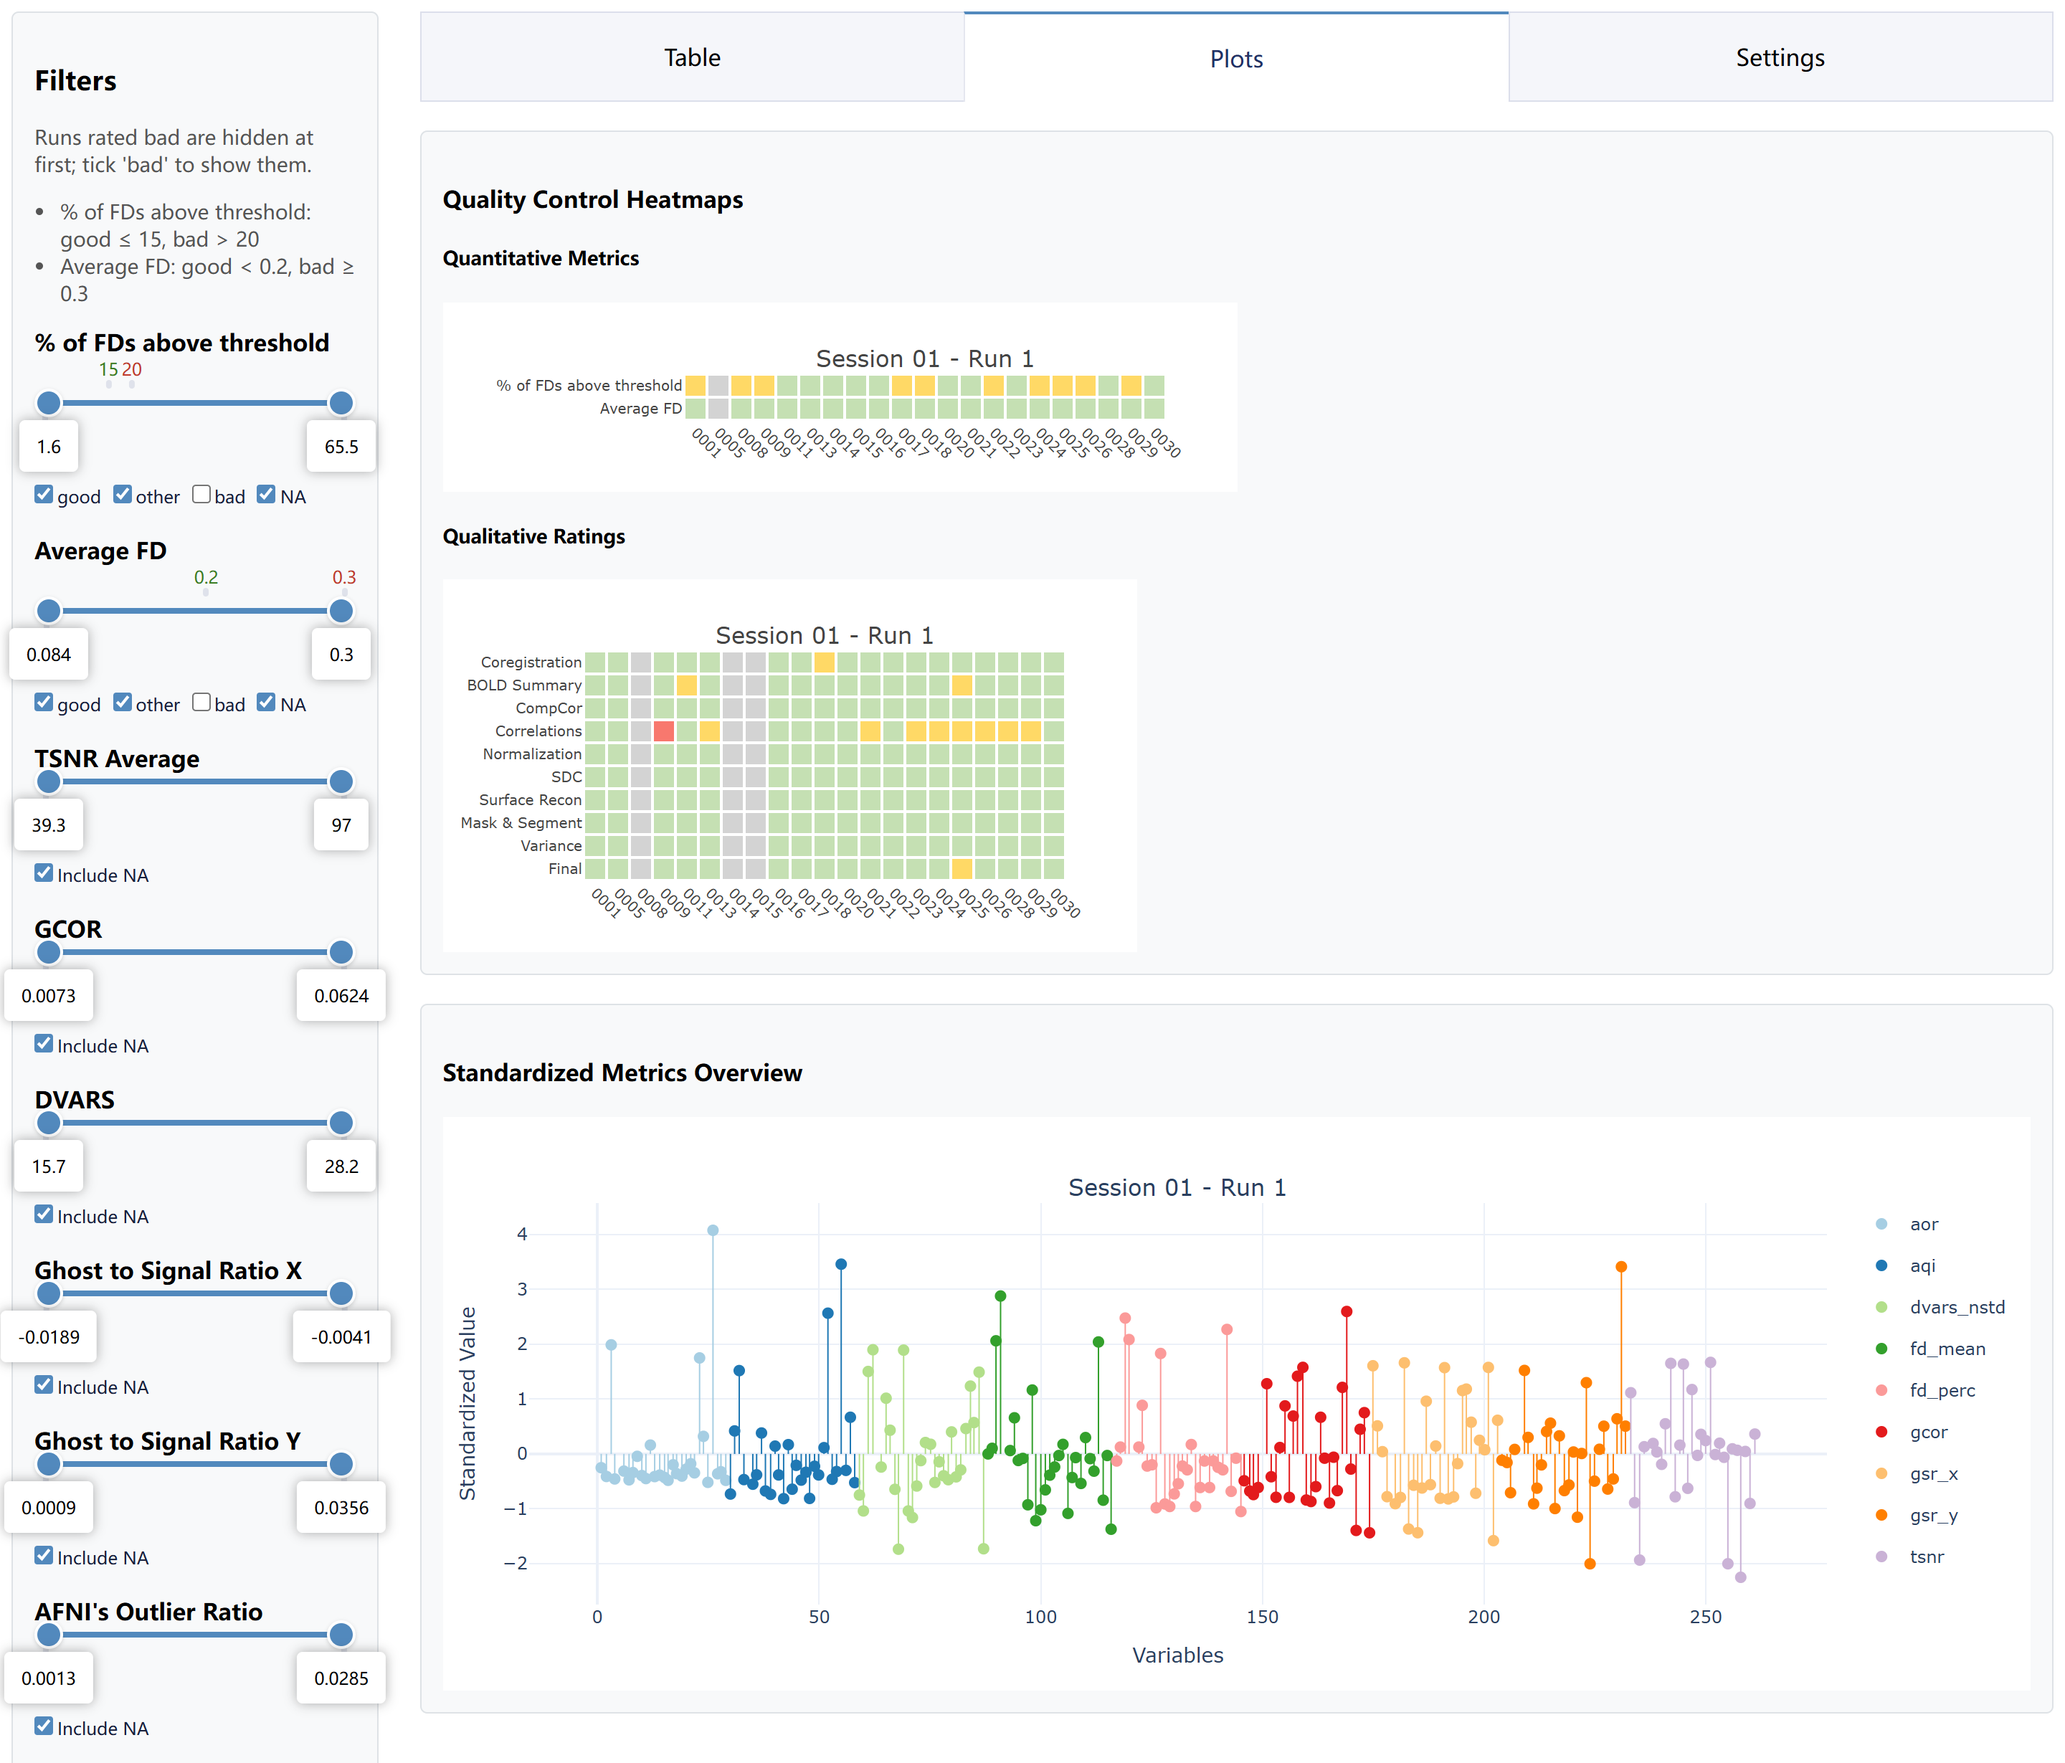
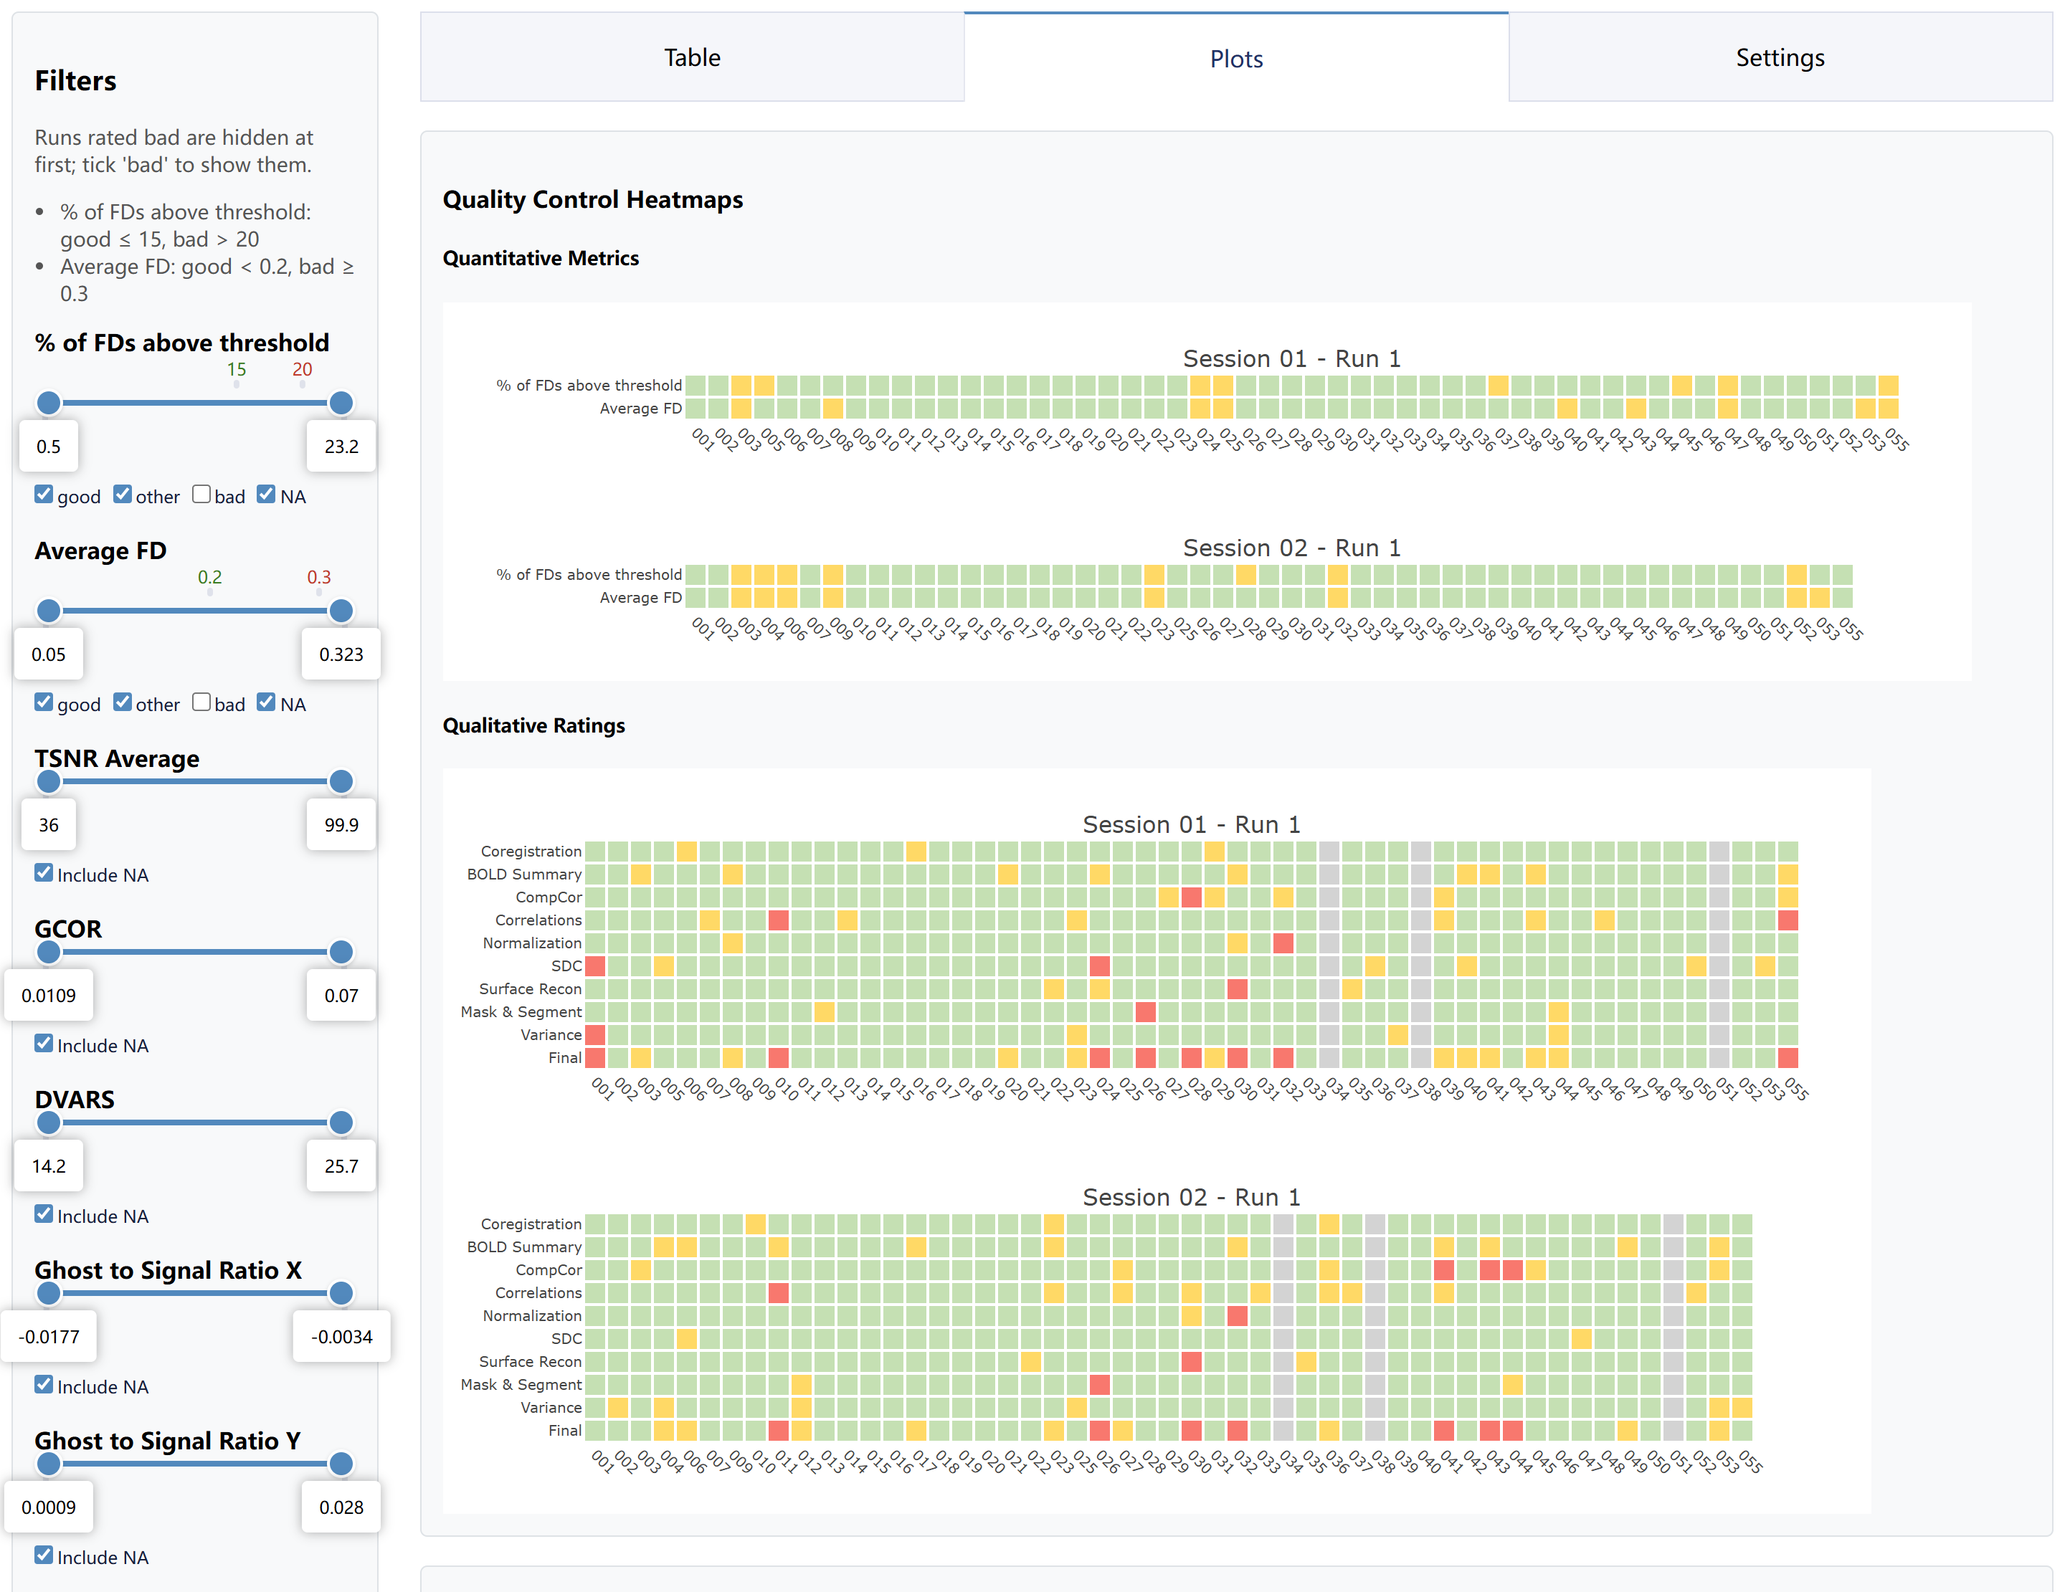
Show every step with pictures in the README and break commands over lines
The README shows the AFNI and fMRIPrep rating pages again, and the dashboard's Table, heatmaps, lollipop chart and Settings tab, taken from simulated data of 55 participants in two sessions so the plots fill the page. Each command puts one option per line. The HPC section describes the usual way of working on a cluster, a remote desktop with Firefox loaded, instead of port forwarding, and the documentation section is a list of links.

diff --git a/README.md b/README.md
@@ -16,48 +16,92 @@ pip install fmri-qctoolkit
 
 ## Quick start
 
-**1. Rate** each participant's QC report: AFNI's APQC report, or the fMRIPrep report in the toolkit's rating page.
+### 1. Rate
+
+Rate AFNI output in AFNI's APQC report:
 
 ```bash
-fmriqc rating afni --input-dir /PATH/AFNI_derivatives --subjects "001,002" --task rest --prefix sub-
-fmriqc rating fmriprep --input-dir /PATH/fmriprep --subjects "001,002" --output-dir /PATH/ratings
+fmriqc rating afni \
+    --input-dir /PATH/AFNI_derivatives \
+    --subjects "001,002" \
+    --task rest \
+    --prefix sub-
 ```
 
-**2. Prepare** one table, `df_final.csv`, with the ratings and the metrics (for fMRIPrep, from MRIQC's `group_bold.tsv`).
+![AFNI rating](https://raw.githubusercontent.com/QiuyuYu3/fMRI-QCtoolkit/main/images/AFNI_rating.png)
+
+Rate fMRIPrep output in the toolkit's rating page, on top of the fMRIPrep report:
 
 ```bash
-fmriqc prep afni --input-dir /PATH/AFNI_derivatives --task rest --prefix sub- --output-dir /PATH/QC
-fmriqc prep fmriprep --bold-file /PATH/mriqc/group_bold.tsv --rating-dir /PATH/ratings --task rest --output-dir /PATH/QC
+fmriqc rating fmriprep \
+    --input-dir /PATH/fmriprep \
+    --subjects "001,002" \
+    --output-dir /PATH/ratings
 ```
 
-**3. View** the table in the dashboard.
+![fMRIPrep rating](https://raw.githubusercontent.com/QiuyuYu3/fMRI-QCtoolkit/main/images/fMRIPrep_rating.png)
+
+### 2. Prepare
+
+Collect the ratings and the metrics into one table, `df_final.csv`. For fMRIPrep, the metrics come from MRIQC's `group_bold.tsv`.
 
 ```bash
-fmriqc dashboard afni --data-file /PATH/QC/df_final.csv --task rest
-fmriqc dashboard fmriprep --data-file /PATH/QC/df_final.csv --task rest
+fmriqc prep afni \
+    --input-dir /PATH/AFNI_derivatives \
+    --task rest \
+    --prefix sub- \
+    --output-dir /PATH/QC
 ```
-
-The rating and dashboard commands print a link to open in your browser. In the dashboard, runs rated bad on any metric are hidden at first, and the **Settings** tab changes which metrics are shown and the thresholds that rate them.
-
-![dashboard](https://raw.githubusercontent.com/QiuyuYu3/fMRI-QCtoolkit/main/images/dashboard2.png)
-
-### On an HPC cluster
-
-Add `--no-browser` to `fmriqc rating fmriprep`. Then, on your own computer, forward the port in the printed link (5003 in `http://localhost:5003/...`) and leave this terminal open while you open the link:
 
 ```bash
-ssh -N -L 5003:127.0.0.1:5003 user@hpc.example.edu
+fmriqc prep fmriprep \
+    --bold-file /PATH/mriqc/group_bold.tsv \
+    --rating-dir /PATH/ratings \
+    --task rest \
+    --output-dir /PATH/QC
 ```
 
-If the command runs on a compute node such as `node123`, go through the login node: `ssh -N -L 5003:127.0.0.1:5003 -J user@hpc.example.edu user@node123`. More in [Opening the pages](https://qiuyuyu3.github.io/fMRI-QCtoolkit/opening-pages.html).
+### 3. View
+
+```bash
+fmriqc dashboard fmriprep \
+    --data-file /PATH/QC/df_final.csv \
+    --task rest
+```
+
+For AFNI, use `fmriqc dashboard afni` with the same options. Open the link printed in the terminal. Runs rated bad on any metric are hidden at first; the filters on the left change which runs are shown.
+
+The **Table** tab lists the runs. Select some and download them.
+
+![Table tab](https://raw.githubusercontent.com/QiuyuYu3/fMRI-QCtoolkit/main/images/dashboard1.png)
+
+The **Plots** tab shows the ratings as heatmaps and the metrics as a lollipop chart.
+
+![Heatmaps](https://raw.githubusercontent.com/QiuyuYu3/fMRI-QCtoolkit/main/images/dashboard2.png)
+
+![Lollipop chart](https://raw.githubusercontent.com/QiuyuYu3/fMRI-QCtoolkit/main/images/dashboard3.png)
+
+The **Settings** tab chooses the metrics shown and the thresholds that rate them.
+
+![Settings tab](https://raw.githubusercontent.com/QiuyuYu3/fMRI-QCtoolkit/main/images/dashboard_settings.png)
+
+The screenshots show simulated data.
+
+## On an HPC cluster
+
+Start a remote desktop session on the cluster (such as XDesktop or an Open OnDemand desktop), open a terminal in it, and load Firefox before running the commands above:
+
+```bash
+ml Firefox
+```
+
+The rating pages open in Firefox. For the dashboard, copy the printed link into Firefox. Module names differ between clusters; `module avail firefox` lists yours. To rate AFNI output, load AFNI as well. More in [Opening the pages](https://qiuyuyu3.github.io/fMRI-QCtoolkit/opening-pages.html).
 
 ## Documentation
 
-The [handbook](https://qiuyuyu3.github.io/fMRI-QCtoolkit/) covers each step with all its options: [rating AFNI](https://qiuyuyu3.github.io/fMRI-QCtoolkit/rating-afni.html) and [fMRIPrep](https://qiuyuyu3.github.io/fMRI-QCtoolkit/rating-fmriprep.html) output, [preparing the table](https://qiuyuyu3.github.io/fMRI-QCtoolkit/prep.html), the [dashboard](https://qiuyuyu3.github.io/fMRI-QCtoolkit/dashboard.html), the [Settings tab](https://qiuyuyu3.github.io/fMRI-QCtoolkit/settings.html) and [config file](https://qiuyuyu3.github.io/fMRI-QCtoolkit/config.html), the [default thresholds](https://qiuyuyu3.github.io/fMRI-QCtoolkit/thresholds.html), a [command reference](https://qiuyuyu3.github.io/fMRI-QCtoolkit/cli.html) and [troubleshooting](https://qiuyuyu3.github.io/fMRI-QCtoolkit/troubleshooting.html).
-
-The [training materials](https://github.com/QiuyuYu3/fMRI-QCtoolkit/tree/main/training_materials) hold a QC reference sheet for the AFNI pipeline, for training raters.
-
-Changes between versions are listed in the [change log](https://github.com/QiuyuYu3/fMRI-QCtoolkit/blob/main/CHANGELOG.md).
+- [Handbook](https://qiuyuyu3.github.io/fMRI-QCtoolkit/)
+- [Training materials](https://github.com/QiuyuYu3/fMRI-QCtoolkit/tree/main/training_materials)
+- [Change log](https://github.com/QiuyuYu3/fMRI-QCtoolkit/blob/main/CHANGELOG.md)
 
 ## Citation
 
